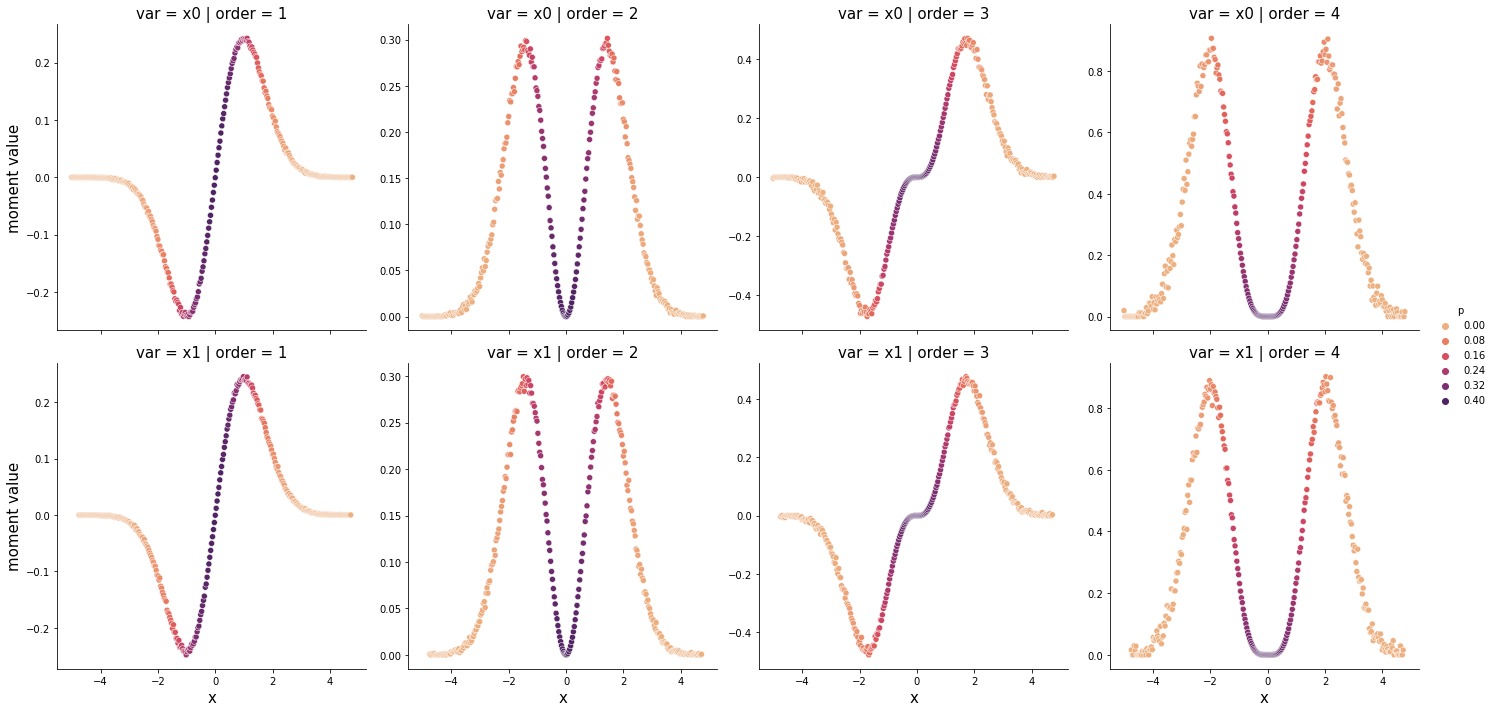
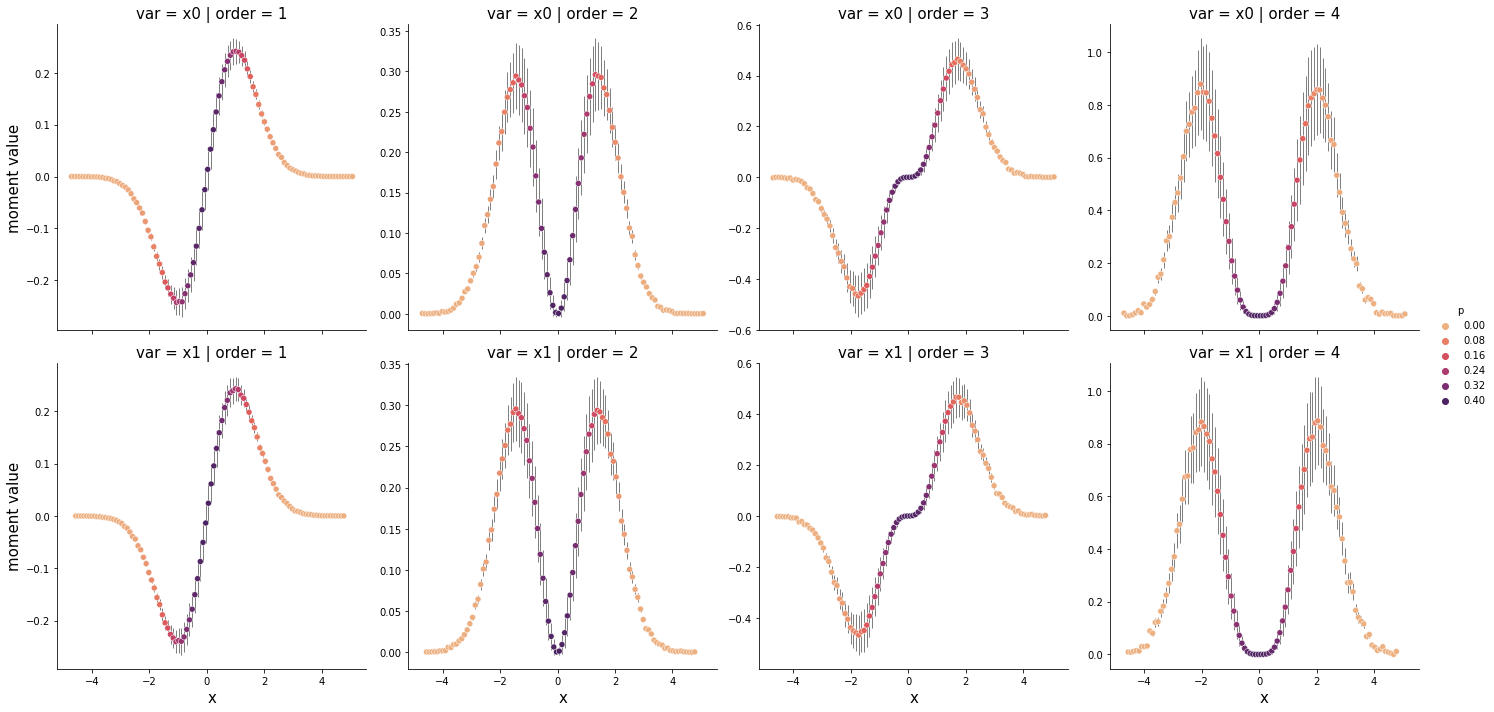
Errorbars added

diff --git a/Moments_Plot.py b/Moments_Plot.py
@@ -8,12 +8,115 @@ import matplotlib as mpl
 import matplotlib.pyplot as plt
 import seaborn as sns
 
-#######################################################################################
 
+############################################################################################
+#                                 >>>>> calculations <<<<<                                 #
+############################################################################################
+
+def __calculate_moments__(data, order, bins, n_time_series, dims):
+    """this function creates a dataframe from binning data and calculating the integrand of 
+    the statistical moments of the given orders, and its columns include center of bins (x), 
+    the bins widths (delta x), the probability of each bin (p), the error of the probabilities (delta p),
+    and the moment values as well as their orders in the column 'order'"""
+    
+    data_ = (data - np.mean(data, axis=0)) / np.std(data, axis=0) #standardize data (z-score)
+    
+    x_ = []
+    delta_x_ = []
+
+    p_ = []
+    delta_p_ = []
+
+    for i in range(dims):
+
+        n_bins, bin_edges = np.histogram(data_[:, i], bins=bins_)
+        
+        bin_centers = np.array([(bin_edges[i] + bin_edges[i+1]) / 2 for i in range(len(bin_edges)-1)])
+        x_.append(bin_centers)
+        
+        probability = n_bins / n_time_series
+        p_.append(probability)
+
+        delta_x = np.diff(bin_edges)
+        delta_x_.append(delta_x)
+
+        delta_p = np.sqrt(probability * (1 - probability) / n_time_series)
+        delta_p_.append(delta_p)
+
+    x_ = np.array(x_)
+    delta_x_ = np.array(delta_x_).reshape(-1)
+    p_ = np.array(p_).reshape(-1)
+    delta_p_ = np.array(delta_p_).reshape(-1)
+
+    df = pd.DataFrame(x_.T)
+    df = df.melt(var_name='var', value_name='x')
+    df['var'] = 'x' + df['var'].astype(str)
+
+    df['p'] = p_
+    df['delta x'] = np.abs(delta_x_)
+    df['delta p'] = np.abs(delta_p_)
+
+    for o in order:
+
+        df[o] = (df['x'] ** o) * df['p']
+
+    df = df.melt(id_vars=df.columns[:-len(order)], var_name='order', value_name='moment value')
+    
+    df['error'] = np.abs(df['moment value'] * (np.abs(df['delta p'] / df['p']) + \
+                                        np.abs(df['order'] * df['delta x'] / df['x'])))
+    
+    df['error'].fillna(method='ffill', inplace=True)
+    
+    return df
+    
+############################################################################################
+#                                     >>>>> plot <<<<<                                     #
+############################################################################################
 
 @mpl.rc_context({'axes.labelsize': 15, })
+def __plot_moments__(df, dims, order, row, column, palette):
+    """this function takes the dataframe calculated from the function __calculate_moments__ 
+    and plots the moments"""
+    
+    g = sns.relplot(data=df, 
+                       x='x', 
+                       y='moment value', 
+                       row=row, 
+                       col=column, 
+                       hue='p', 
+                       palette=palette, 
+                       facet_kws={'sharey': False}, 
+                      );
+
+    ####################################### errorbars ######################################
+    
+    n_grid = {'var': dims, 'order':len(order)}
+    grid_index = {'var': df['var'].unique(), 'order': df['order'].unique()}
+
+    for r in range(n_grid[row]):
+
+        for c in range(n_grid[column]):
+            
+            ax = g.facet_axis(r, c)
+            
+            filter_ = (df[row] == grid_index[row][r]) & (df[column] == grid_index[column][c])
+
+            ax.errorbar(df['x'][filter_].values, 
+                        df['moment value'][filter_].values, 
+                        yerr=df['error'][filter_].values, 
+                        ecolor='gray', 
+                        elinewidth=1,
+                        fmt='none', 
+                        zorder=0)
+            
+    return g
+
+############################################################################################
+#                                 >>>>> main function <<<<<                                #
+############################################################################################
+
 def moments_plot(data, order, bins=300, row='var', column='order', palette='flare', **kwargs):
-    """ This function plots the integrand of the statistical moments of the given orders for a given data.
+    """This function plots the statistical moments of the given orders for a given data.
 
     :param data: the array of time-series, each column corresponds to a time-serie
     :type data: nd-array of shape (n, dims)
@@ -41,10 +144,10 @@ def moments_plot(data, order, bins=300, row='var', column='order', palette='flar
     
 
     ---------------
-    :return: sns.relplot
+    :return: seaborn facetgrid
     """
-
-    ######################################## assertions ########################################
+    
+    ###################################### assertions ######################################
 
     assert ((row in ['var', 'order'] and column in ['var', 'order']) and row!=column),\
     f"row and column must be different and be one of the ['var', 'order'] but got {row} and {column}."
@@ -52,51 +155,23 @@ def moments_plot(data, order, bins=300, row='var', column='order', palette='flar
     assert data.shape[0] > 0, ValueError('no data in time series')
     assert (np.array(order) >= 0).all(), ValueError('nagative order is given')
     
-    ############################################################################################
-
+    
+    ###################################### preliminary #####################################
+    
     if type(order) == int:
         order = [order]
 
-    n_time_serie, dims = data.shape
+    n_time_series, dims = data.shape
     
-    data_ = data - np.mean(data, axis=0)  #zero-mean
     
-    x_ = []
-    p_ = []
+    ###################################### calculations ####################################
+    
+    df = __calculate_moments__(data, order, bins, n_time_series, dims)
+    
+    
+    ########################################## plot ########################################
 
-    for i in range(dims):
+    g = __plot_moments__(df, dims, order, row, column, palette)
 
-        probability, bin_edges = np.histogram(data_[:, i], bins=bins, density=True)
-        bin_centers = np.array([(bin_edges[i] + bin_edges[i+1]) / 2 for i in range(len(bin_edges)-1)])
 
-        x_.append(bin_centers)
-        p_.append(probability)
-
-    x_ = np.array(x_)
-    p_ = np.array(p_).reshape(-1)
-
-    df = pd.DataFrame(x_.T)
-    df = df.melt(var_name='var', value_name='x')
-    df['var'] = 'x' + df['var'].astype(str)
-
-    df['p'] = p_
-
-    for o in order:
-
-        df[o] = (df['x'] ** o) * df['p']
-
-    df = df.melt(id_vars=['var', 'x', 'p'], var_name='order', value_name='moment value')
-
-    ################################################################################
-
-    plot = sns.relplot(data=df, 
-                       x='x', 
-                       y='moment value', 
-                       row=row, 
-                       col=column, 
-                       hue='p', 
-                       palette=palette, 
-                       facet_kws={'sharey': False}
-                      );
-
-    return plot
+    return g

diff --git a/README.md b/README.md
@@ -20,14 +20,22 @@ Depending on the size and distribution of the data, there may exist a critical o
 
 It is important to keep in mind that the validity of statistical moments depends on the data, and that in some cases, even the second moment (variance) may not be a meaningful measurement.
 
+### **Error Estimation**
 
+The total error of the calculated variable $p(x)x^n$ is given by:
+
+$$\Delta (p(x)x^n) = (p(x)x^n) \times \bigg[\frac{\Delta p}{p} + \frac{2 \Delta x}{x}\bigg]$$
+
+where $p$ is the probability of the bin  and $x$ is the center of the bin with bin length $\Delta x$.
+
+For each bin, the error in the probability $\Delta p$ was was estimated using the binomial distribution from the formula $\sqrt{Np(1-p)}$, where N is the total number of data points and $p = \frac{n}{N}$ is the probability for the bin with $n$ data points. 
 
 ## Requirements
 
 * numpy 1.20.3
 * pandas 1.3.4
 * matplotlib 3.6.2
-* seaborn 0.11.2
+* seaborn 0.12.2
 
 ## Documentation
 
@@ -59,7 +67,7 @@ It is important to keep in mind that the validity of statistical moments depends
 
 ### Return
 
-**return**: `sns.relplot`
+**return**: seaborn facetgrid
 
 ## How to use
 
@@ -75,7 +83,7 @@ moments_plot(<data>, <order>, bins=300, row='var', column='order', palette='flar
 from Moments_Plot import moments_plot
 
 x = np.random.normal(size=(10 ** 6, 2))
-moments_plot(x, order=[1, 2, 3, 4], row='var', column='order', bins=300, palette='flare')
+g = moments_plot(x, order=[1, 2, 3, 4], row='var', column='order', bins=100, palette='flare')
 ```
 ![example plot](img/example_plot.png)
 
@@ -85,24 +93,4 @@ If you would like to contribute to this repository, feel free to submit a pull r
 
 ## License
 
-The MIT License (MIT)
-
-Copyright (c) [2023] [Fatemeh Nikpanjeh]
-
-Permission is hereby granted, free of charge, to any person obtaining a copy
-of this software and associated documentation files (the "Software"), to deal
-in the Software without restriction, including without limitation the rights
-to use, copy, modify, merge, publish, distribute, sublicense, and/or sell
-copies of the Software, and to permit persons to whom the Software is
-furnished to do so, subject to the following conditions:
-
-The above copyright notice and this permission notice shall be included in all
-copies or substantial portions of the Software.
-
-THE SOFTWARE IS PROVIDED "AS IS", WITHOUT WARRANTY OF ANY KIND, EXPRESS OR
-IMPLIED, INCLUDING BUT NOT LIMITED TO THE WARRANTIES OF MERCHANTABILITY,
-FITNESS FOR A PARTICULAR PURPOSE AND NONINFRINGEMENT. IN NO EVENT SHALL THE
-AUTHORS OR COPYRIGHT HOLDERS BE LIABLE FOR ANY CLAIM, DAMAGES OR OTHER
-LIABILITY, WHETHER IN AN ACTION OF CONTRACT, TORT OR OTHERWISE, ARISING FROM,
-OUT OF OR IN CONNECTION WITH THE SOFTWARE OR THE USE OR OTHER DEALINGS IN THE
-SOFTWARE.
+This project is licensed under the MIT License - see the [LICENSE](./LICENSE.md) file for details.
